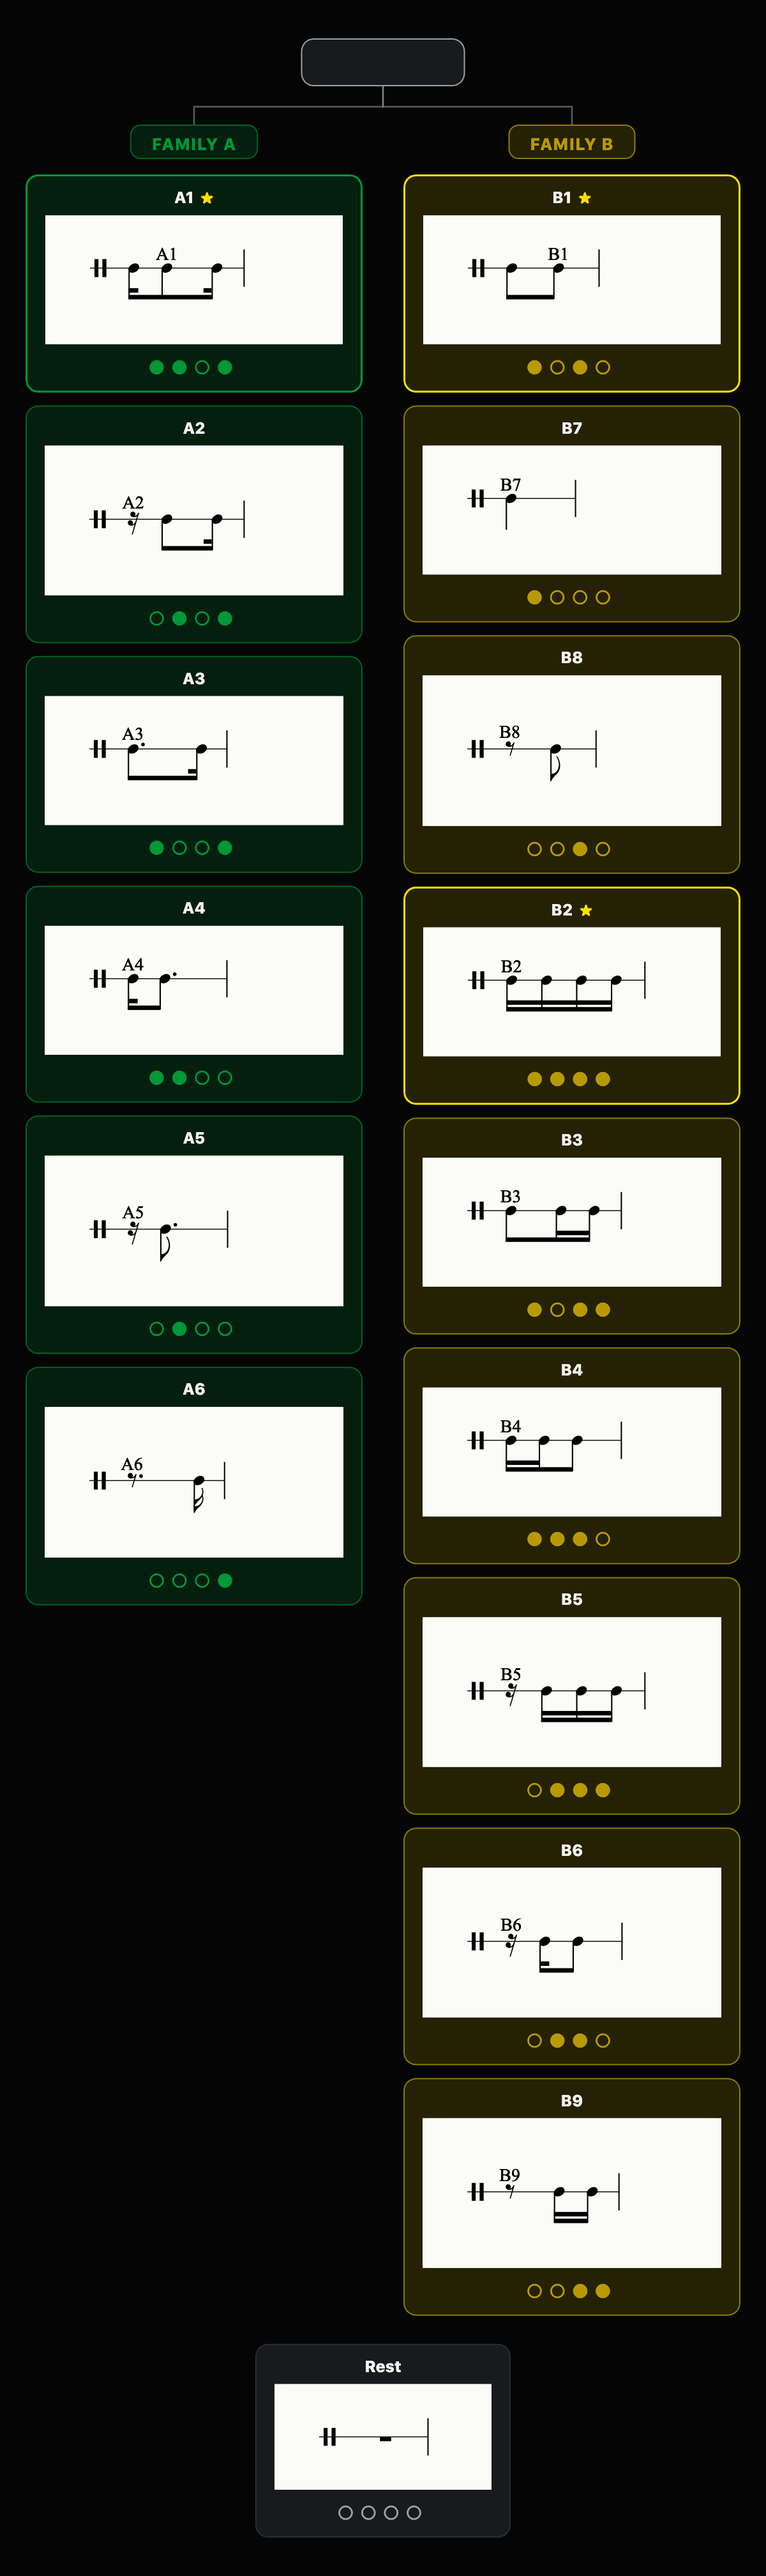
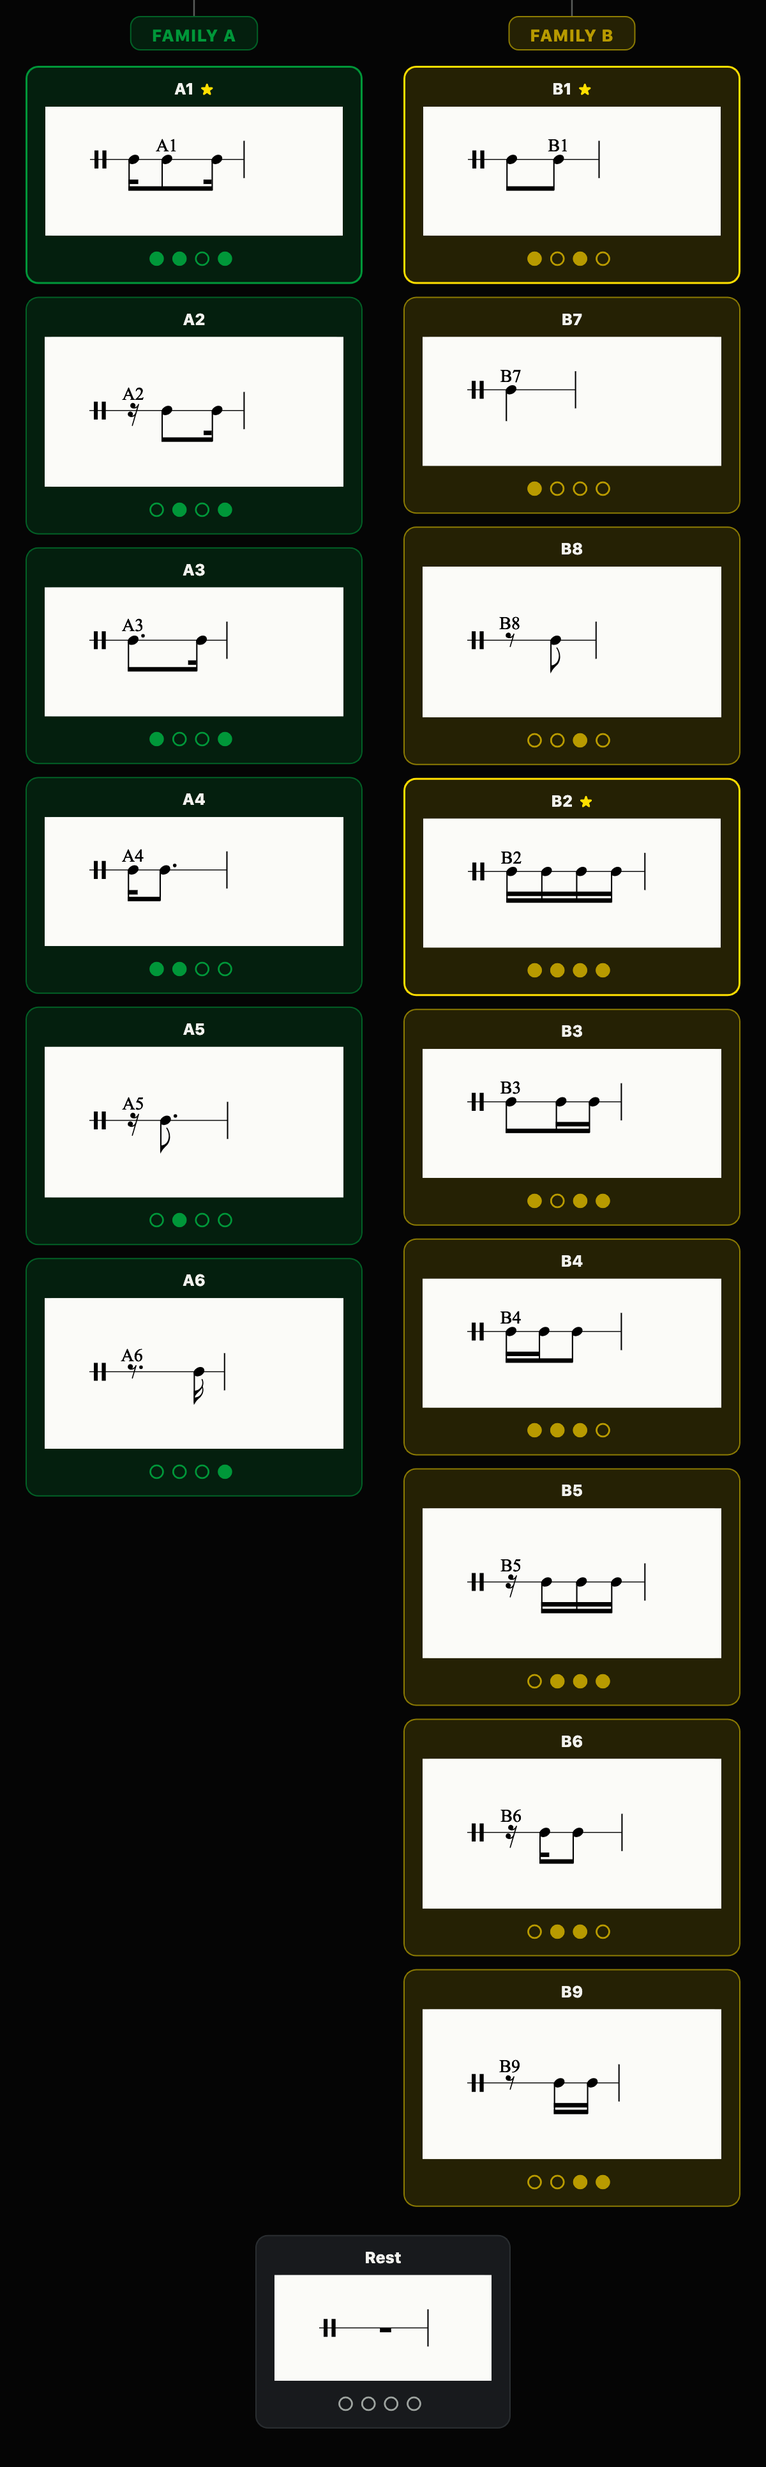
Fix genealogy image crop, notation width, strengthen study/execution contrast

diff --git a/src/css/style.css b/src/css/style.css
@@ -120,6 +120,11 @@ button:disabled { opacity:.4; cursor:not-allowed; }
 .doc-page { max-width:860px; margin:0 auto; padding:34px 24px 60px; line-height:1.65; color:var(--text-primary); }
 .doc-page h2 { font-size:24px; margin:34px 0 12px; letter-spacing:-.02em; }
 .doc-page h2:first-child { margin-top:0; }
+.title-row { display:flex; align-items:baseline; gap:12px; flex-wrap:wrap; }
+.title-row:first-child { margin-top:0; }
+.title-row h2 { margin:34px 0 12px; }
+.title-row:first-child h2 { margin-top:0; }
+.matrix-cell-tag { font-size:11px; font-weight:800; letter-spacing:.04em; text-transform:uppercase; color:var(--text-secondary); border:1px solid var(--border-subtle); border-radius:20px; padding:4px 12px; }
 .doc-page h3 { font-size:17px; margin:24px 0 8px; color:var(--brazil-yellow); }
 .doc-page p, .doc-page li { color:var(--text-secondary); font-size:15px; }
 .doc-page ul, .doc-page ol { padding-left:22px; }
@@ -180,16 +185,16 @@ button:disabled { opacity:.4; cursor:not-allowed; }
 .notation-example { margin-bottom:32px; padding-bottom:26px; border-bottom:1px dashed var(--border-subtle); }
 .notation-example:last-child { border-bottom:none; margin-bottom:0; padding-bottom:0; }
 .notation-example-title { font-size:12px; font-weight:800; color:var(--brazil-yellow); margin-bottom:14px; text-align:center; }
-.notation-example-row { border-radius:10px; padding:12px 16px 16px; margin-bottom:12px; }
+.notation-example-row { border-radius:10px; padding:14px 18px 20px; margin-bottom:14px; border:1px solid transparent; }
 .notation-example-row:last-child { margin-bottom:0; }
-.notation-example-row.row-study { background:var(--background-elevated); border-left:3px solid var(--text-secondary); }
-.notation-example-row.row-exec { background:rgba(255,223,0,0.06); border-left:3px solid var(--brazil-yellow); }
-.notation-example-label { display:flex; align-items:center; gap:8px; font-size:11px; font-weight:800; text-transform:uppercase; letter-spacing:.05em; margin-bottom:10px; }
+.notation-example-row.row-study { background:var(--background-panel); border-left:5px solid var(--text-secondary); border-color:var(--border-subtle); }
+.notation-example-row.row-exec { background:rgba(255,223,0,0.1); border-left:5px solid var(--brazil-yellow); border-color:rgba(255,223,0,0.35); }
+.notation-example-label { display:flex; align-items:center; gap:10px; font-size:12.5px; font-weight:800; text-transform:uppercase; letter-spacing:.06em; margin-bottom:12px; }
 .notation-example-row.row-study .notation-example-label { color:var(--text-secondary); }
 .notation-example-row.row-exec .notation-example-label { color:var(--brazil-yellow); }
-.notation-example-badge { font-size:9px; padding:2px 7px; border-radius:10px; font-weight:800; }
-.notation-example-row.row-study .notation-example-badge { background:var(--background-panel); color:var(--text-secondary); border:1px solid var(--border-subtle); }
-.notation-example-row.row-exec .notation-example-badge { background:rgba(255,223,0,0.15); color:var(--brazil-yellow); border:1px solid rgba(255,223,0,0.5); }
+.notation-example-badge { font-size:11px; width:20px; height:20px; display:inline-flex; align-items:center; justify-content:center; border-radius:50%; font-weight:900; flex:0 0 auto; }
+.notation-example-row.row-study .notation-example-badge { background:var(--background-elevated); color:var(--text-secondary); border:1.5px solid var(--text-secondary); }
+.notation-example-row.row-exec .notation-example-badge { background:var(--brazil-yellow); color:#3a2f00; border:1.5px solid var(--brazil-yellow); }
 .notation-example-box { background:#FBFBF8; border-radius:8px; min-height:50px; overflow-x:auto; }
 .notation-example-box svg { max-width:100%; height:auto !important; display:block; margin:0 auto; }
 
@@ -243,12 +248,7 @@ button:disabled { opacity:.4; cursor:not-allowed; }
 .module-rail .module-row .module-body p:last-child { margin-bottom:0; }
 
 /* --- Rhythmic Matrix: cell-split teaser above the approved tree --- */
-.cell-teaser { display:flex; align-items:center; justify-content:center; gap:12px; margin:16px 0 24px; flex-wrap:wrap; }
-.cell-teaser .cell-box { display:flex; gap:3px; align-items:flex-end; height:26px; padding:7px 9px; background:var(--background-elevated); border:1px solid var(--border-subtle); border-radius:8px; }
-.cell-teaser .cell-box .b { width:8px; border-radius:2px; background:var(--text-secondary); }
-.cell-teaser .cell-box.a .b { background:var(--brazil-green); }
-.cell-teaser .cell-box.b .b { background:var(--brazil-yellow); }
-.cell-teaser .cell-arrow { color:var(--text-secondary); font-size:15px; }
+
 
 /* --- App: compact animated mode dropdown (visual layer over #modeSelect) --- */
 .mode-dropdown { position:relative; }

diff --git a/matrix.html b/matrix.html
@@ -4,7 +4,7 @@
   <meta charset="UTF-8" />
   <meta name="viewport" content="width=device-width, initial-scale=1.0" />
   <title>Rhythmic Matrix — Brazilian Syncopation Lab</title>
-  <link rel="stylesheet" href="src/css/style.css?v=27" />
+  <link rel="stylesheet" href="src/css/style.css?v=28" />
 </head>
 <body>
   <header>
@@ -27,25 +27,9 @@
   </header>
 
   <main class="doc-page">
-    <h2 data-i18n="title">From one cell to a vocabulary</h2>
-
-    <div class="cell-teaser" aria-hidden="true">
-      <div class="cell-box">
-        <div class="b" style="height:9px"></div>
-        <div class="b" style="height:18px"></div>
-        <div class="b" style="height:9px"></div>
-        <div class="b" style="height:14px"></div>
-      </div>
-      <div class="cell-arrow">→</div>
-      <div class="cell-box a">
-        <div class="b" style="height:9px"></div>
-        <div class="b" style="height:18px"></div>
-        <div class="b" style="height:9px"></div>
-      </div>
-      <div class="cell-box b">
-        <div class="b" style="height:14px"></div>
-        <div class="b" style="height:14px"></div>
-      </div>
+    <div class="title-row">
+      <h2 data-i18n="title">From one cell to a vocabulary</h2>
+      <span class="matrix-cell-tag">Matrix Cell</span>
     </div>
 
     <div data-i18n="bodyBefore"></div>

diff --git a/about.html b/about.html
@@ -5,7 +5,7 @@
   <meta name="viewport" content="width=device-width, initial-scale=1.0" />
   <title>How It Works — Brazilian Syncopation Lab</title>
   <script src="https://cdn.jsdelivr.net/npm/opensheetmusicdisplay@1.9.2/build/opensheetmusicdisplay.min.js"></script>
-  <link rel="stylesheet" href="src/css/style.css?v=27" />
+  <link rel="stylesheet" href="src/css/style.css?v=28" />
 </head>
 <body>
   <header>
@@ -267,13 +267,12 @@
         const xml = await resp.text();
         const osmd = new opensheetmusicdisplay.OpenSheetMusicDisplay(elId, {
           backend: 'svg', drawTitle: false, drawSubtitle: false, drawComposer: false,
-          drawPartNames: false, drawMeasureNumbers: false, autoResize: false
+          drawPartNames: false, drawMeasureNumbers: false, autoResize: true
         });
         await osmd.load(xml);
         osmd.EngravingRules.RenderTimeSignatures = true;
         osmd.EngravingRules.PageBackgroundColor = '#FBFBF8';
         osmd.EngravingRules.DefaultColorMusic = '#000000';
-        osmd.zoom = 0.85;
         osmd.render();
       }
 

diff --git a/index.html b/index.html
@@ -6,7 +6,7 @@
   <title>Brazilian Syncopation Lab</title>
   <script src="https://cdn.jsdelivr.net/npm/opensheetmusicdisplay@1.9.2/build/opensheetmusicdisplay.min.js"></script>
   <script src="https://cdn.jsdelivr.net/npm/tone@14.7.77/build/Tone.min.js"></script>
-  <link rel="stylesheet" href="src/css/style.css?v=27" />
+  <link rel="stylesheet" href="src/css/style.css?v=28" />
 </head>
 <body>
 

diff --git a/notation.html b/notation.html
@@ -4,7 +4,7 @@
   <meta charset="UTF-8" />
   <meta name="viewport" content="width=device-width, initial-scale=1.0" />
   <title>Rhythmic Representation — Brazilian Syncopation Lab</title>
-  <link rel="stylesheet" href="src/css/style.css?v=27" />
+  <link rel="stylesheet" href="src/css/style.css?v=28" />
 </head>
 <body>
   <header>

diff --git a/research.html b/research.html
@@ -4,7 +4,7 @@
   <meta charset="UTF-8" />
   <meta name="viewport" content="width=device-width, initial-scale=1.0" />
   <title>Research &amp; Context — Brazilian Syncopation Lab</title>
-  <link rel="stylesheet" href="src/css/style.css?v=27" />
+  <link rel="stylesheet" href="src/css/style.css?v=28" />
 </head>
 <body>
   <header>

diff --git a/home.html b/home.html
@@ -4,7 +4,7 @@
   <meta charset="UTF-8" />
   <meta name="viewport" content="width=device-width, initial-scale=1.0" />
   <title>Brazilian Syncopation Lab</title>
-  <link rel="stylesheet" href="src/css/style.css?v=27" />
+  <link rel="stylesheet" href="src/css/style.css?v=28" />
 </head>
 <body>
   <header>
